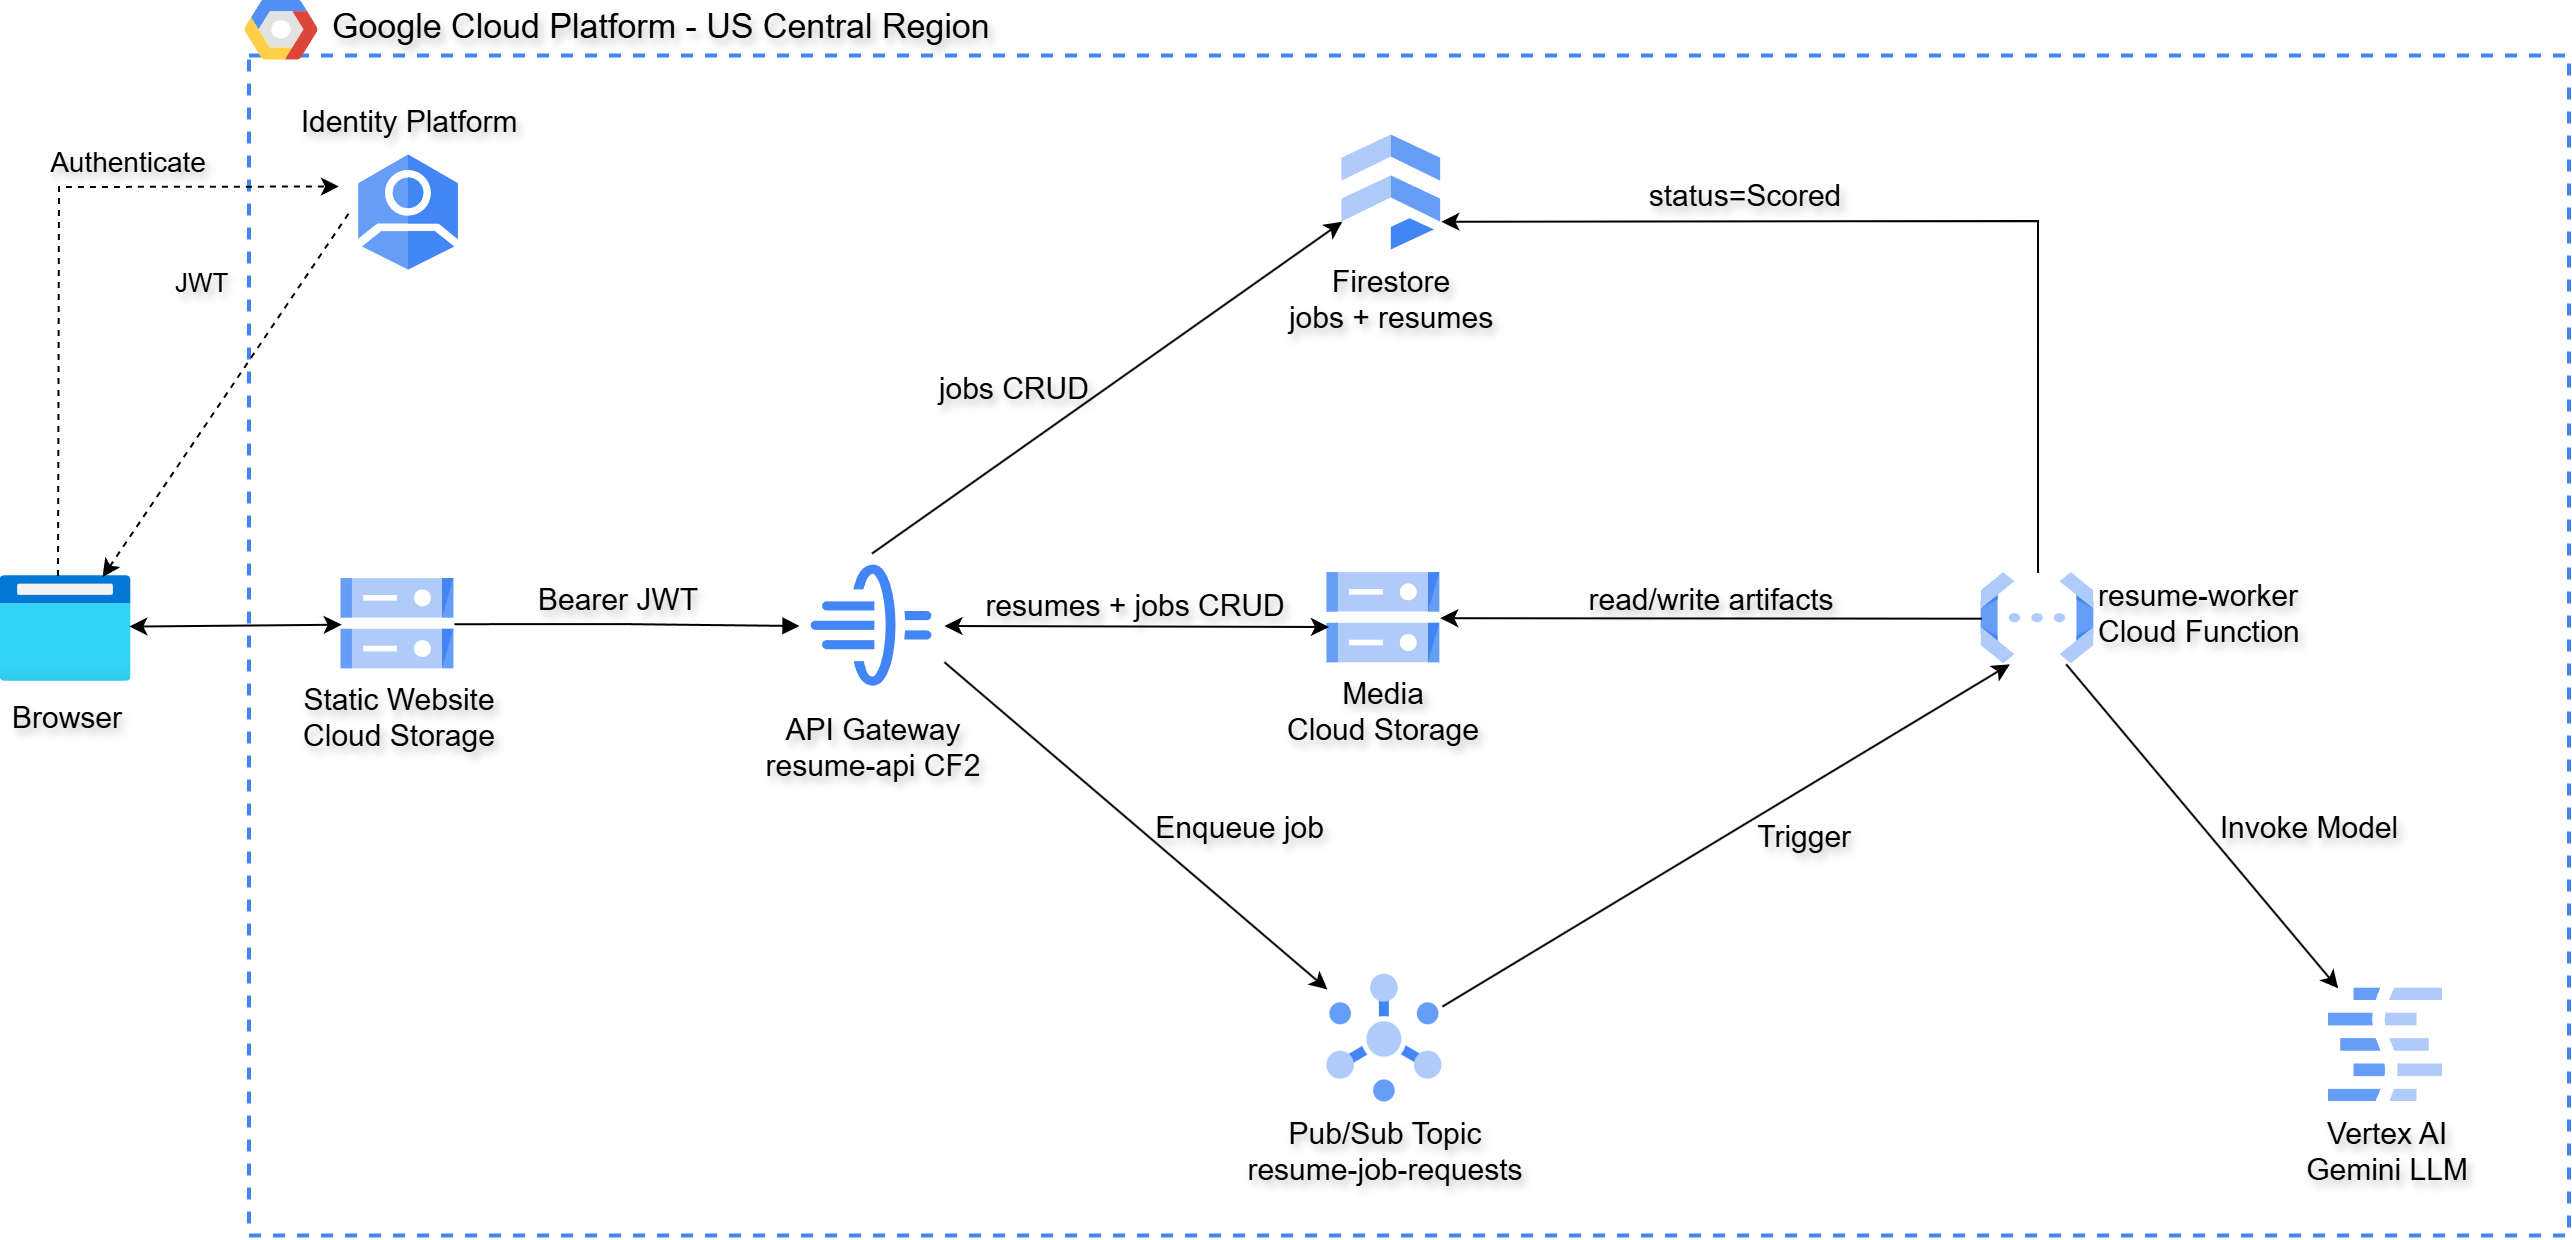
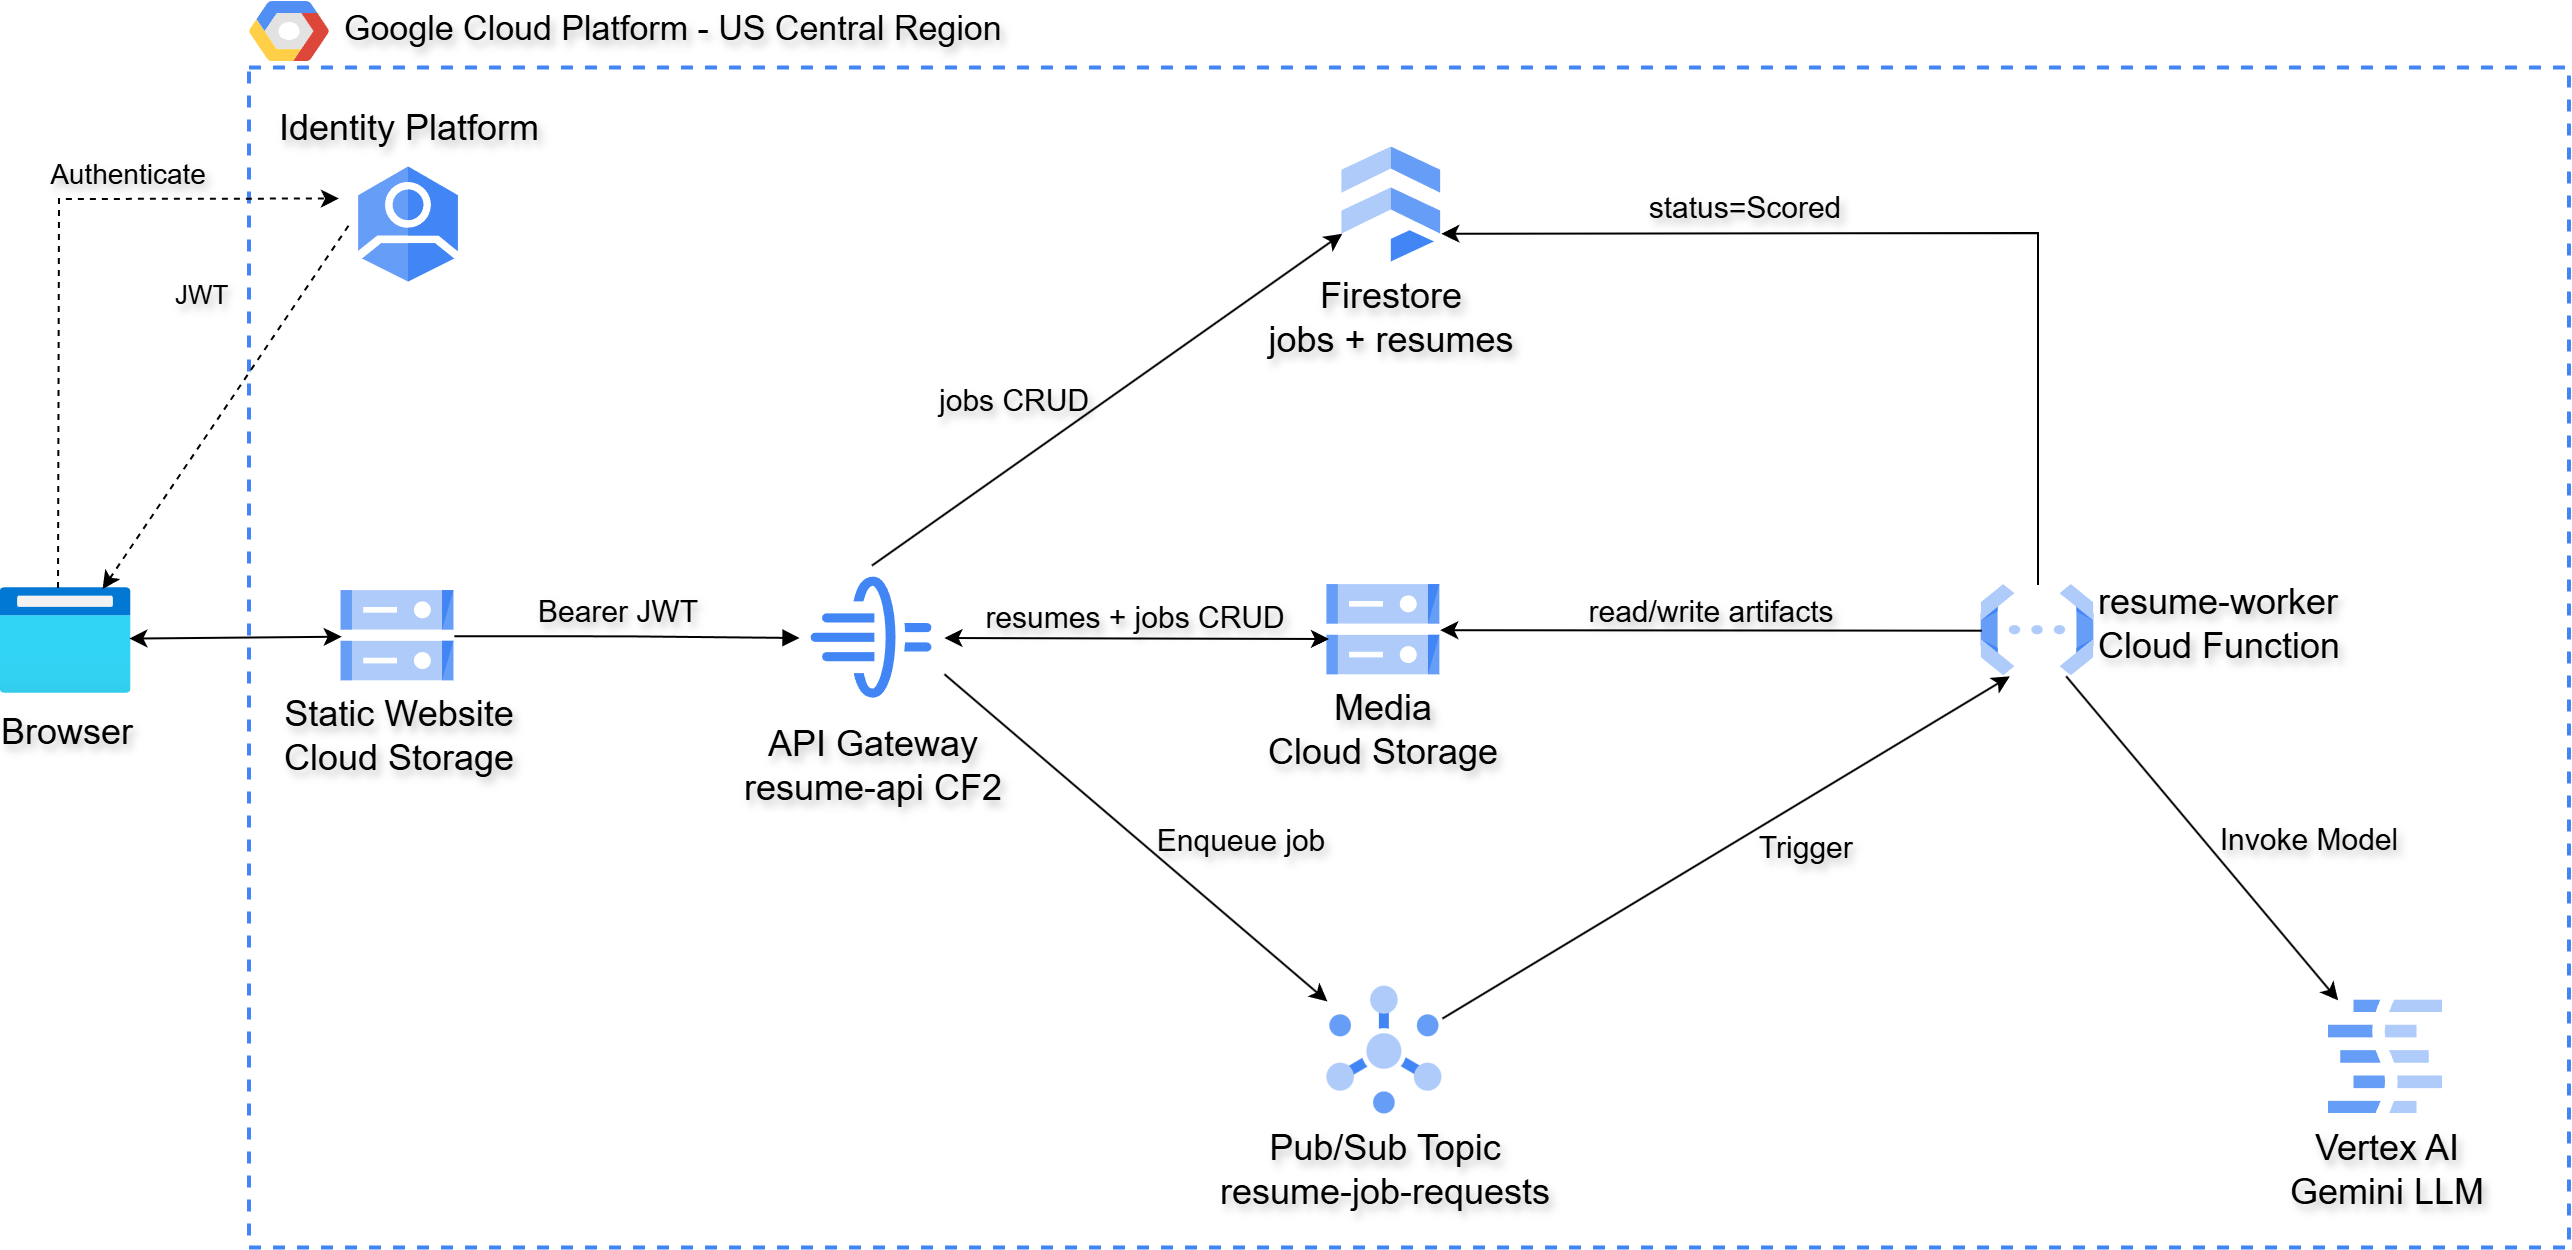
work on documentation

diff --git a/README.md b/README.md
@@ -1,4 +1,4 @@
-# GCP Serverless Resume Scoring Application with Vertex AI, Cloud Functions, Firestore, Pub/Sub, and API Gateway
+# GCP Serverless Resume Scoring Application
 
 This project delivers a fully automated **serverless resume scoring application**
 on GCP, built using **GCP API Gateway**, **Cloud Functions 2nd Gen**,